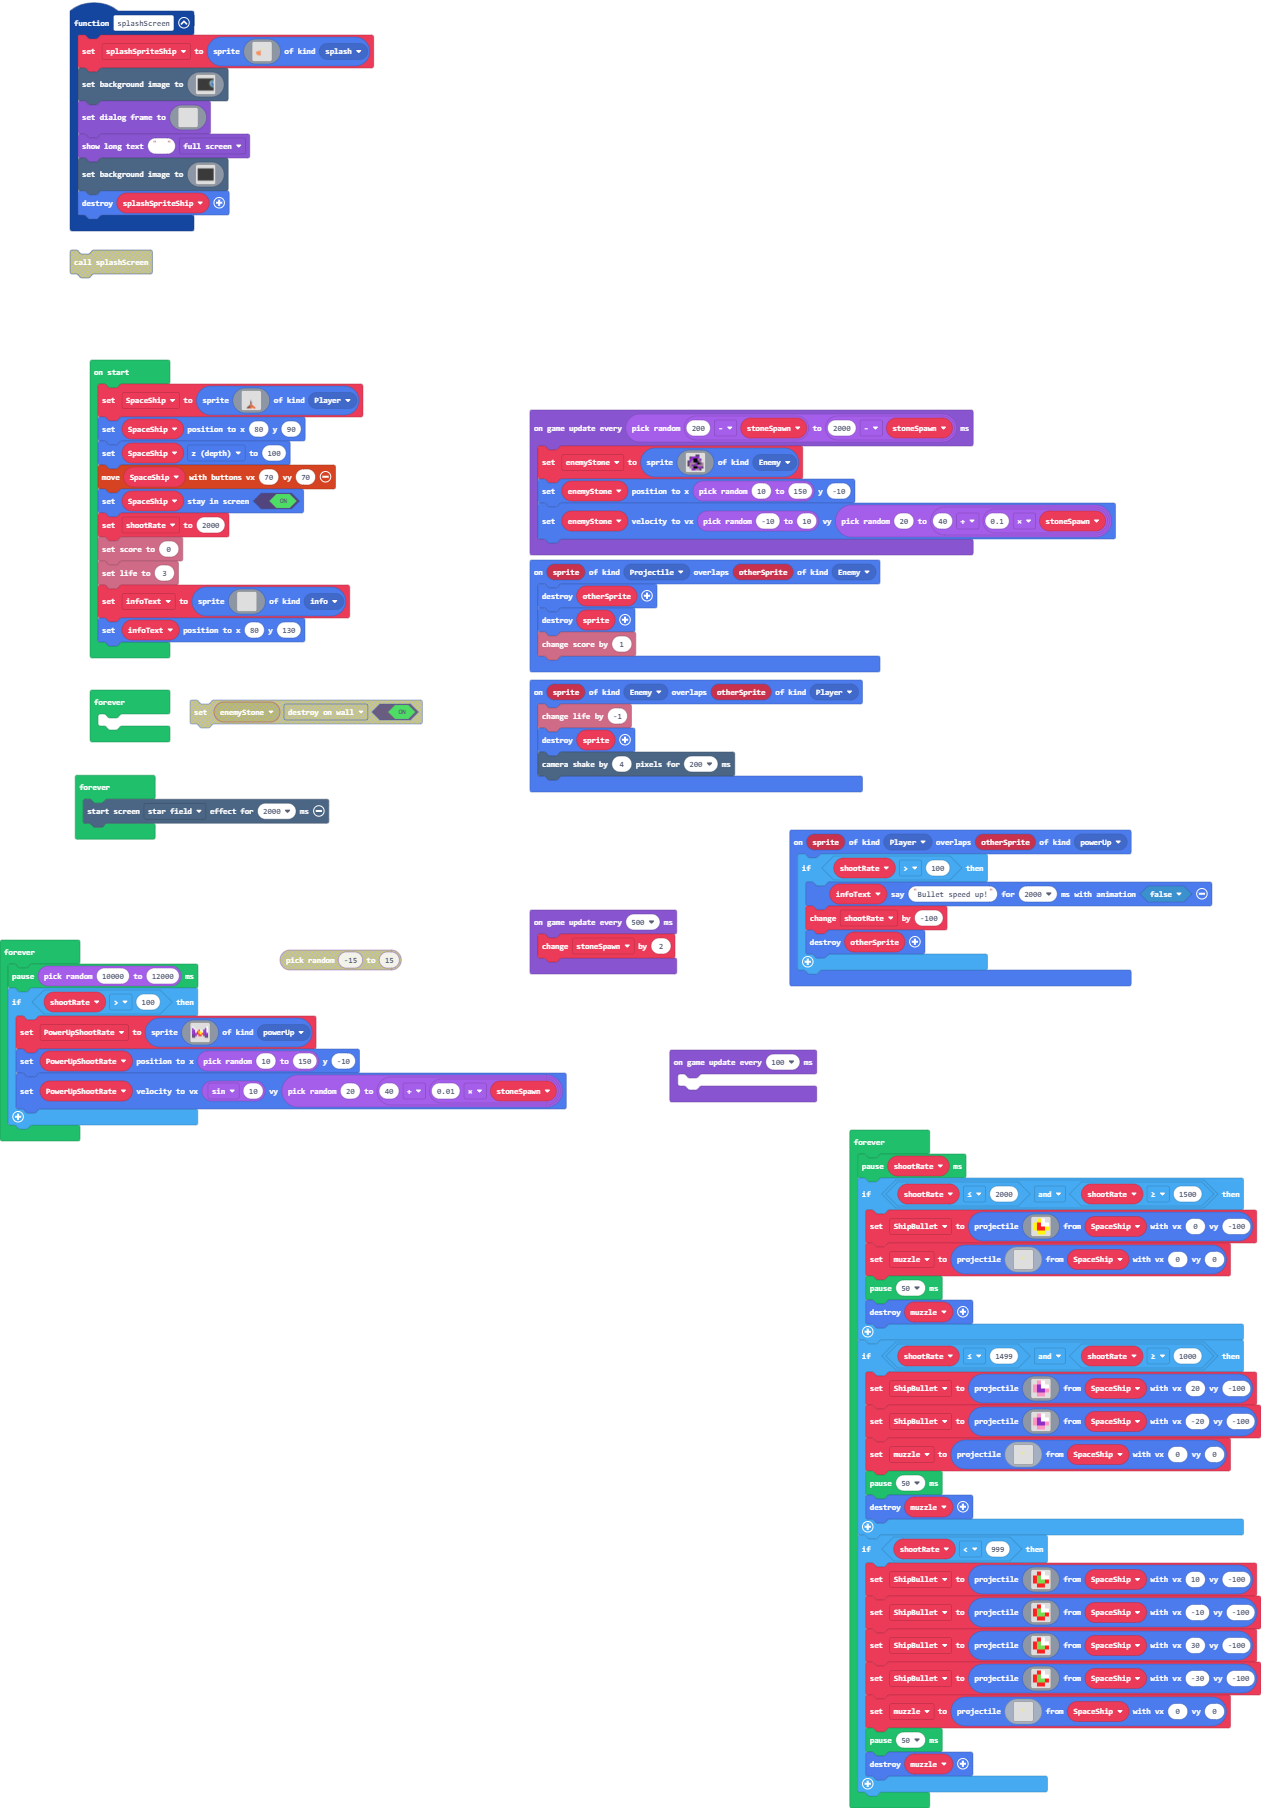
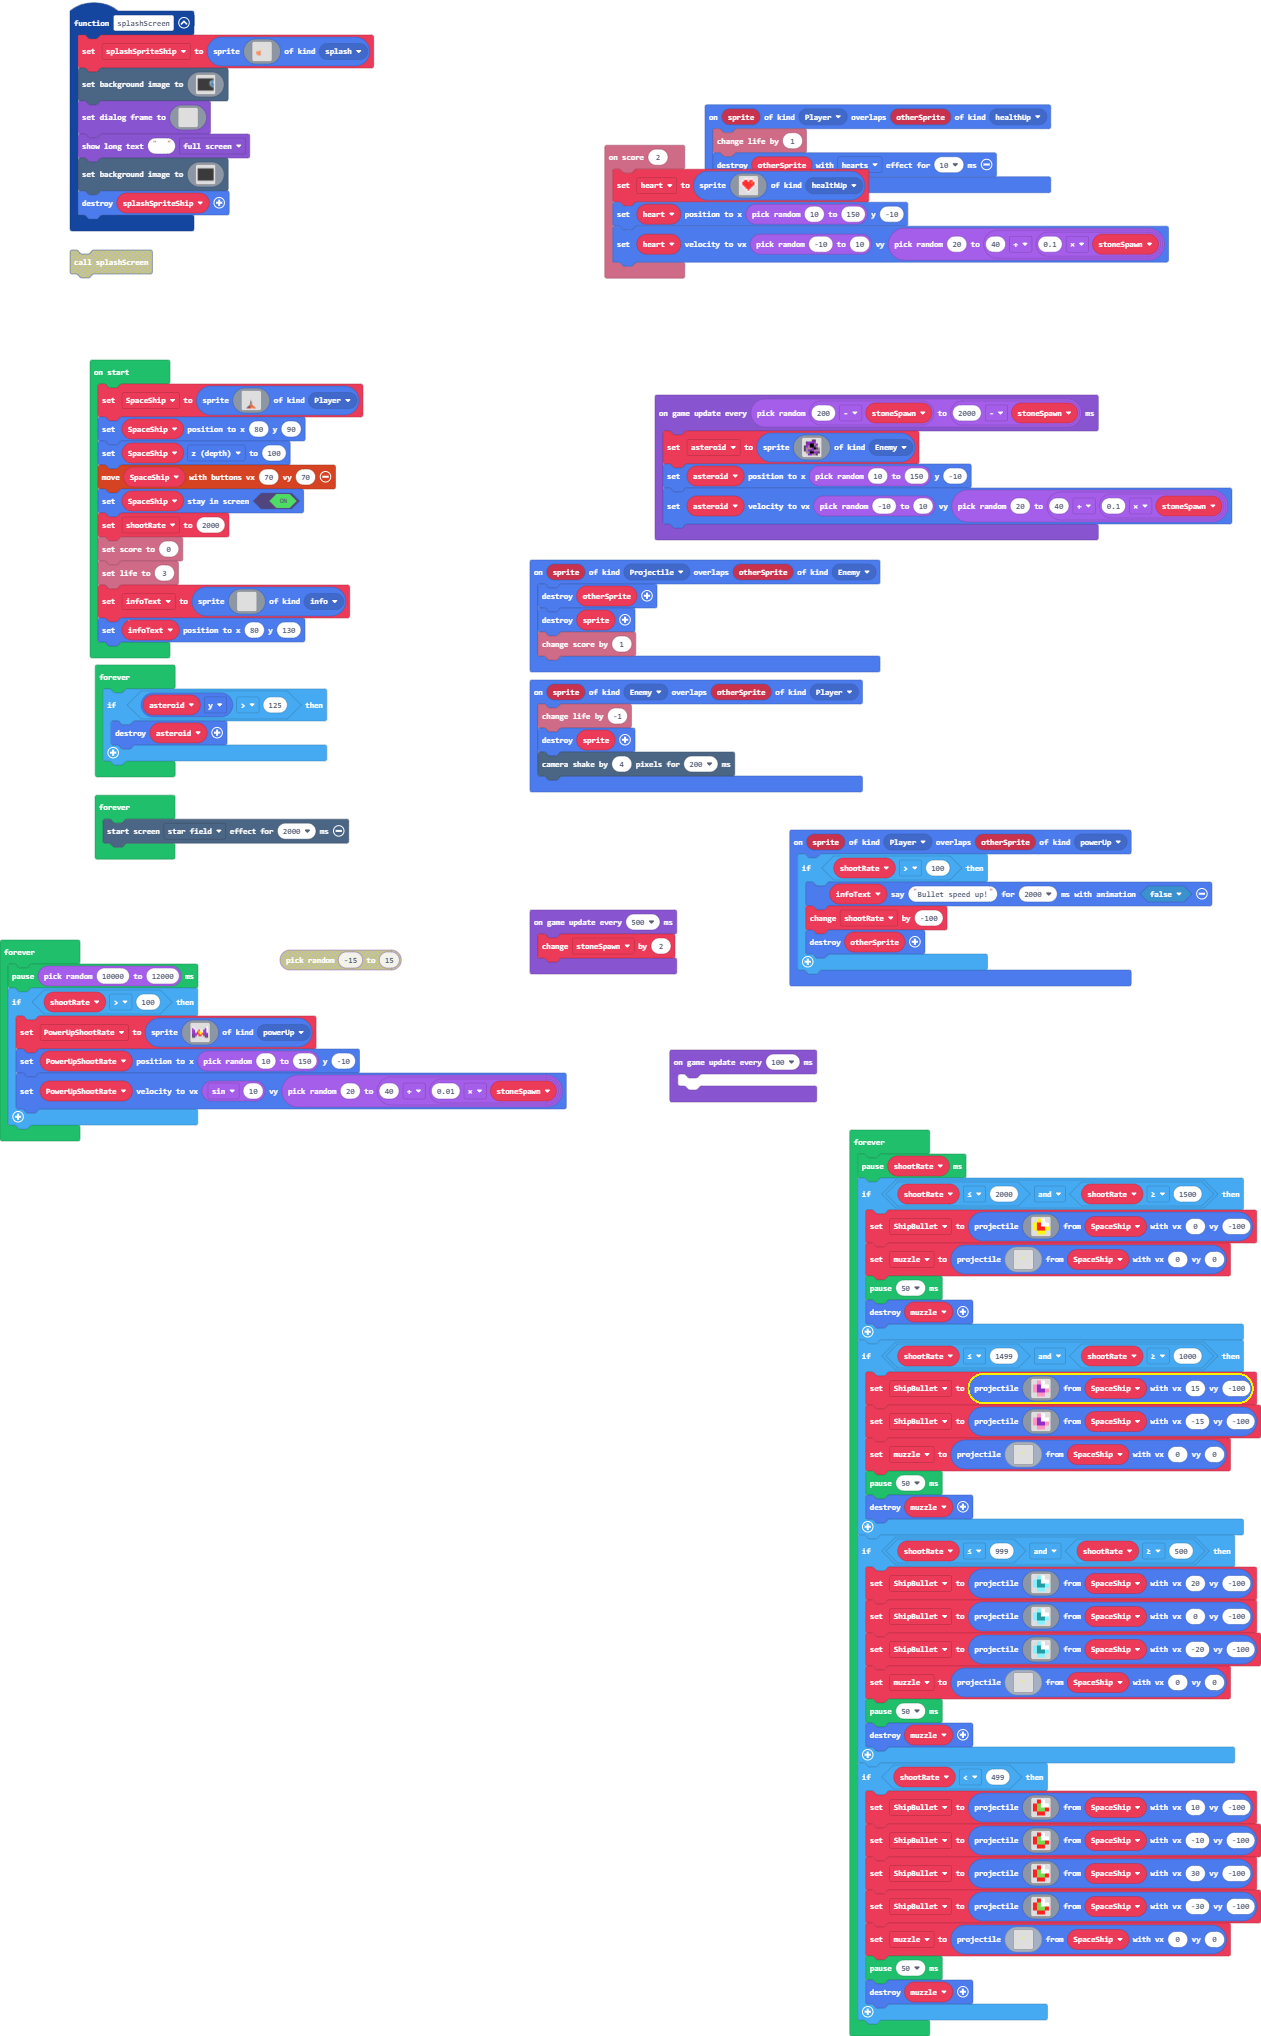
Misc changes and life improvements.

diff --git a/main.ts b/main.ts
@@ -3,7 +3,26 @@ namespace SpriteKind {
     export const splash = SpriteKind.create()
     export const powerUp = SpriteKind.create()
     export const info = SpriteKind.create()
+    export const healthUp = SpriteKind.create()
 }
+sprites.onOverlap(SpriteKind.Player, SpriteKind.healthUp, function (sprite, otherSprite) {
+    info.changeLifeBy(1)
+    sprites.destroy(otherSprite, effects.hearts, 10)
+})
+info.onScore(2, function () {
+    heart = sprites.create(img`
+        . . 1 1 . 1 1 . . 
+        . 1 2 2 1 2 2 1 . 
+        1 2 2 2 2 2 4 2 1 
+        1 2 2 2 2 2 2 2 1 
+        . 1 2 2 2 2 2 1 . 
+        . . 1 2 2 2 1 . . 
+        . . . 1 2 1 . . . 
+        . . . . 1 . . . . 
+        `, SpriteKind.healthUp)
+    heart.setPosition(randint(10, 150), -10)
+    heart.setVelocity(randint(-10, 10), randint(20, 40 + 0.1 * stoneSpawn))
+})
 sprites.onOverlap(SpriteKind.Enemy, SpriteKind.Player, function (sprite, otherSprite) {
     info.changeLifeBy(-1)
     sprites.destroy(sprite)
@@ -408,12 +427,13 @@ sprites.onOverlap(SpriteKind.Projectile, SpriteKind.Enemy, function (sprite, oth
     sprites.destroy(sprite)
     info.changeScoreBy(1)
 })
-let enemyStone: Sprite = null
 let muzzle: Sprite = null
 let ShipBullet: Sprite = null
-let stoneSpawn = 0
 let PowerUpShootRate: Sprite = null
+let asteroid: Sprite = null
 let splashSpriteShip: Sprite = null
+let stoneSpawn = 0
+let heart: Sprite = null
 let infoText: Sprite = null
 let shootRate = 0
 let SpaceShip = sprites.create(img`
@@ -475,7 +495,9 @@ infoText = sprites.create(img`
     `, SpriteKind.info)
 infoText.setPosition(80, 130)
 forever(function () {
-	
+    if (asteroid.y > 125) {
+        sprites.destroy(asteroid)
+    }
 })
 forever(function () {
     effects.starField.startScreenEffect(2000)
@@ -546,12 +568,66 @@ forever(function () {
             3 a 1 1 
             3 a a 3 
             . 3 3 . 
-            `, SpaceShip, 20, -100)
+            `, SpaceShip, 15, -100)
         ShipBullet = sprites.createProjectileFromSprite(img`
             . 3 1 . 
             3 a 1 1 
             3 a a 3 
             . 3 3 . 
+            `, SpaceShip, -15, -100)
+        muzzle = sprites.createProjectileFromSprite(img`
+            ................
+            ................
+            ................
+            ................
+            ................
+            ................
+            ................
+            ................
+            ................
+            ................
+            .........5......
+            .....5..........
+            ......55.5......
+            .......55.......
+            ................
+            ................
+            ................
+            ................
+            ................
+            ................
+            ................
+            ................
+            ................
+            ................
+            ................
+            ................
+            ................
+            ................
+            ................
+            ................
+            `, SpaceShip, 0, 0)
+        pause(50)
+        sprites.destroy(muzzle)
+    }
+    if (shootRate <= 999 && shootRate >= 500) {
+        ShipBullet = sprites.createProjectileFromSprite(img`
+            . 9 1 . 
+            9 6 1 1 
+            9 6 6 9 
+            . 9 9 . 
+            `, SpaceShip, 20, -100)
+        ShipBullet = sprites.createProjectileFromSprite(img`
+            . 9 1 . 
+            9 6 1 1 
+            9 6 6 9 
+            . 9 9 . 
+            `, SpaceShip, 0, -100)
+        ShipBullet = sprites.createProjectileFromSprite(img`
+            . 9 1 . 
+            9 6 1 1 
+            9 6 6 9 
+            . 9 9 . 
             `, SpaceShip, -20, -100)
         muzzle = sprites.createProjectileFromSprite(img`
             ................
@@ -588,7 +664,7 @@ forever(function () {
         pause(50)
         sprites.destroy(muzzle)
     }
-    if (shootRate < 999) {
+    if (shootRate < 499) {
         ShipBullet = sprites.createProjectileFromSprite(img`
             . 2 1 . 
             2 7 1 1 
@@ -656,7 +732,7 @@ game.onUpdateInterval(100, function () {
 	
 })
 game.onUpdateInterval(randint(200 - stoneSpawn, 2000 - stoneSpawn), function () {
-    enemyStone = sprites.create(img`
+    asteroid = sprites.create(img`
         . . . . c c . . 
         . c a a a a . . 
         . a a f f b a . 
@@ -666,6 +742,6 @@ game.onUpdateInterval(randint(200 - stoneSpawn, 2000 - stoneSpawn), function () 
         . b b f f a a c 
         . . a a b b c . 
         `, SpriteKind.Enemy)
-    enemyStone.setPosition(randint(10, 150), -10)
-    enemyStone.setVelocity(randint(-10, 10), randint(20, 40 + 0.1 * stoneSpawn))
+    asteroid.setPosition(randint(10, 150), -10)
+    asteroid.setVelocity(randint(-10, 10), randint(20, 40 + 0.1 * stoneSpawn))
 })
